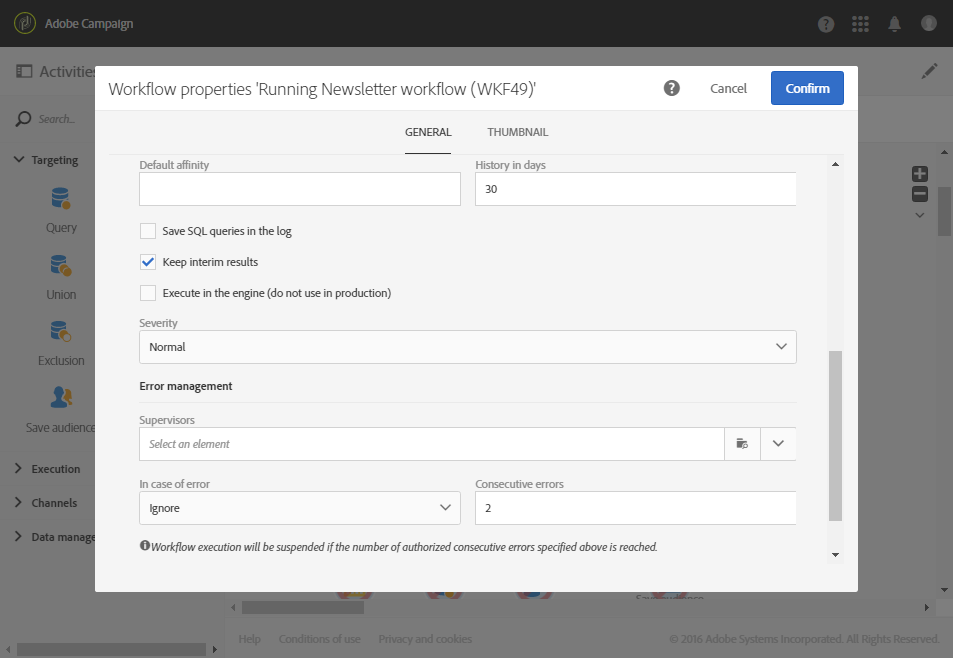
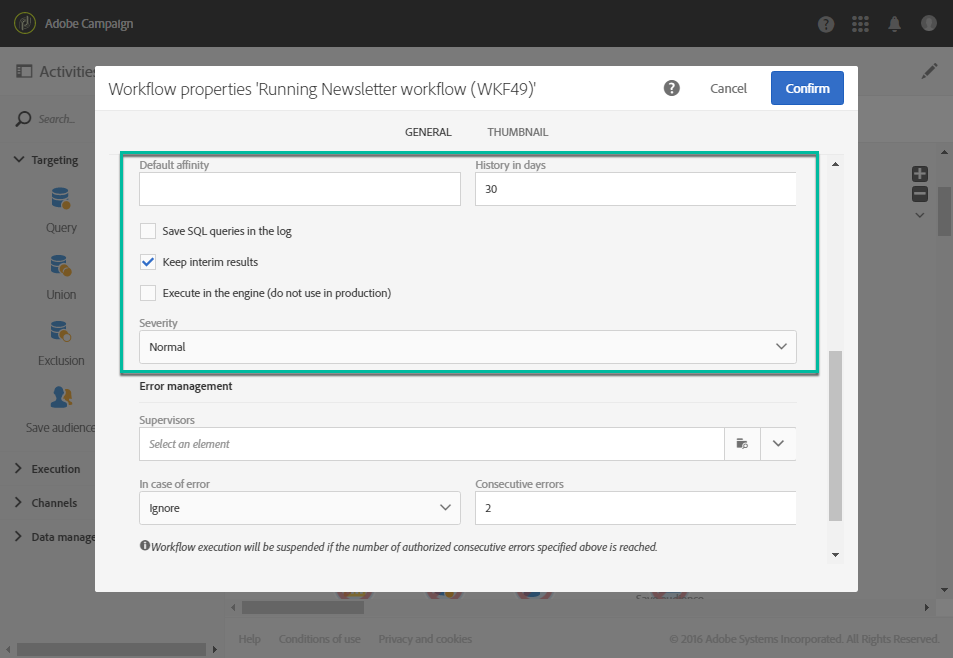
reviewed options list

Changed region(s): [[0.1217, 0.2128, 0.8825, 0.5775]]

diff --git a/help/automating/using/executing-a-workflow.md b/help/automating/using/executing-a-workflow.md
@@ -170,17 +170,36 @@ In this case, the erroneous task is aborted. This mode is particularly suited to
 >
 >You can apply this configuration individually for each activity. To do this, select an activity and open it using the quick action ![](assets/edit_darkgrey-24px.png). Then select the error management mode in the **Execution options** tab. See [Activity execution options](#activity-execution-options).
 
-The **[!UICONTROL Execution]** section of the workflow properties also allows you to define a number of **[!UICONTROL Consecutive errors]** that are authorized before the workflow execution is automatically suspended. As long as this number is not reached, the erroneous elements are ignored and the other workflow branches are executed normally. If this number is reached, the workflow is suspended and the workflow supervisors are automatically notified (email and in-app notification). See [Workflow properties](#workflow-properties) and [Adobe Campaign notifications](../../administration/using/sending-internal-notifications.md).
+In the [workflow's properties](#workflow-properties), additional options related to error mangement are available.
 
-The supervisors can also be defined in the execution properties of the workflow.
+![](assets/wkf_execution_error.png)
+
+Possible options are:
+
+* **[!UICONTROL Supervisors]**: allows you to define the group of people to notify (email and in-app notification) if the workflow encounters an error. If no group is defined, nobody will be notified. For more on Adobe Campaign notifications, refer to [Adobe Campaign notifications](../../administration/using/sending-internal-notifications.md).
+
+* **[!UICONTROL In case of error]**: allows you to specify the action to be carried out should the activity encounter an error. There are two options available for this:
+  
+  * **Suspend the process**: the workflow is automatically suspended. The workflow status is then **Erroneous** and the color associated turns red. Once the problem is resolved, restart the workflow.
+  * **Ignore**: the activity is not executed, and as a result neither are any of the activities that follow it (in the same branch). This may prove useful for recurring tasks. If the branch has a scheduler placed upstream, this should trigger on the next execution date.
+
+* **[!UICONTROL Consecutive errors]** : allows you to define a number of consecutive errors that are authorized before the workflow execution is automatically suspended.
+
+  * If the number specified is **[!UICONTROL 0]**, or as long as the number specified is not reached, activities that encounter errors are ignored. The other workflow branches are executed normally.
+  
+  * If the number specified is reached, the whole of the workflow is suspended and becomes **[!UICONTROL Erroneous]**. If supervisors have been defined, they are automatically notified by an email. See [Adobe Campaign notifications](../../administration/using/sending-internal-notifications.md).
 
 ## Workflow properties {#workflow-properties}
 
 To modify a workflow's execution options, use the ![](assets/edit_darkgrey-24px.png) button to access the workflow properties and select the **[!UICONTROL Execution]** section.
 
-The **[!UICONTROL Default affinity]** field allows you to force a workflow or a workflow activity to execute on a particular machine.
+![](assets/wkf_execution_6.png)
 
-In the **[!UICONTROL History in days]** field, specify the number of days after which the history must be purged. The history consists in all elements related like logs, tasks, events. Default value is 30 days.
+Possible options are:
+
+* **[!UICONTROL Default affinity]**: this field allows you to force a workflow or a workflow activity to execute on a particular machine.
+
+* **[!UICONTROL History in days]**: specifies the number of days after which the history must be purged. The history consists in all elements related like logs, tasks, events. Default value is 30 days.
 
   Purge of the history is performed by the Database cleanup technical workfow, which is executed by default everyday (see [List of technical workflows](../../administration/using/technical-workflows.md).)
 
@@ -188,25 +207,15 @@ In the **[!UICONTROL History in days]** field, specify the number of days after 
   >
   >If the **[!UICONTROL History in days]** field is left blank, its value will be considered as "1", meaning that the history will purged after 1 day.
 
-You can choose to check the **[!UICONTROL Save SQL queries in the log]** and **[!UICONTROL Execute in the engine (do not use in production)]** options if necessary.
+* **[!UICONTROL Save SQL queries in the log]**: allows you to save the SQL queries from the workflow into the logs.
 
-Check the **[!UICONTROL Keep interim results]** option if you would like to be able to view the detail of transitions. Warning: checking this option may significantly slow down the workflow execution.
+* ***[!UICONTROL Keep interim results]**: check this option if you would like to be able to view the detail of transitions. Warning: checking this option may significantly slow down the workflow execution.
 
-The **[!UICONTROL Severity]** field allows you to specify a level of priority for executing workflows in your Adobe Campaign instance. Critical workflows will be executed first.
+* **[!UICONTROL Execute in the engine (do not use in production)]**: allows you to execute the workflow locally, for developement environemment testing purposes.
 
-The **[!UICONTROL Supervisors]** field is where you can define the group of people to notify (email and in-app notification) if the workflow encounters an error. If no group is defined, nobody will be notified. For more on Adobe Campaign notifications, refer to [Adobe Campaign notifications](../../administration/using/sending-internal-notifications.md).
+* **[!UICONTROL Severity]**: allows you to specify a level of priority for executing workflows in your Adobe Campaign instance. Critical workflows will be executed first.
 
-The **[!UICONTROL In case of error]** field allows you to specify the action to be carried out should the activity encounter an error. There are two options available for this:
-
-* **Suspend the process**: the workflow is automatically suspended. The workflow status is then **Erroneous** and the color associated turns red. Once the problem is resolved, restart the workflow.
-* **Ignore**: the activity is not executed, and as a result neither are any of the activities that follow it (in the same branch). This may prove useful for recurring tasks. If the branch has a scheduler placed upstream, this should trigger on the next execution date.
-
-  By selecting this option, you can also define a number of **[!UICONTROL Consecutive errors]** that are authorized:
-
-    * If the number specified is **[!UICONTROL 0]**, or as long as the number specified is not reached, activities that encounter errors are ignored. The other workflow branches are executed normally.
-    * If the number specified is reached, the whole of the workflow is suspended and becomes **[!UICONTROL Erroneous]**. If supervisors have been defined, they are automatically notified by an email.
-
-![](assets/wkf_execution_6.png)
+The **[!UICONTROL Error management]** section provides additional options that allow you to manage how workflows behave in case of errors. These options are detailed in the [Error management](#error-management) section.
 
 ## Activity properties {#activity-properties}
 
